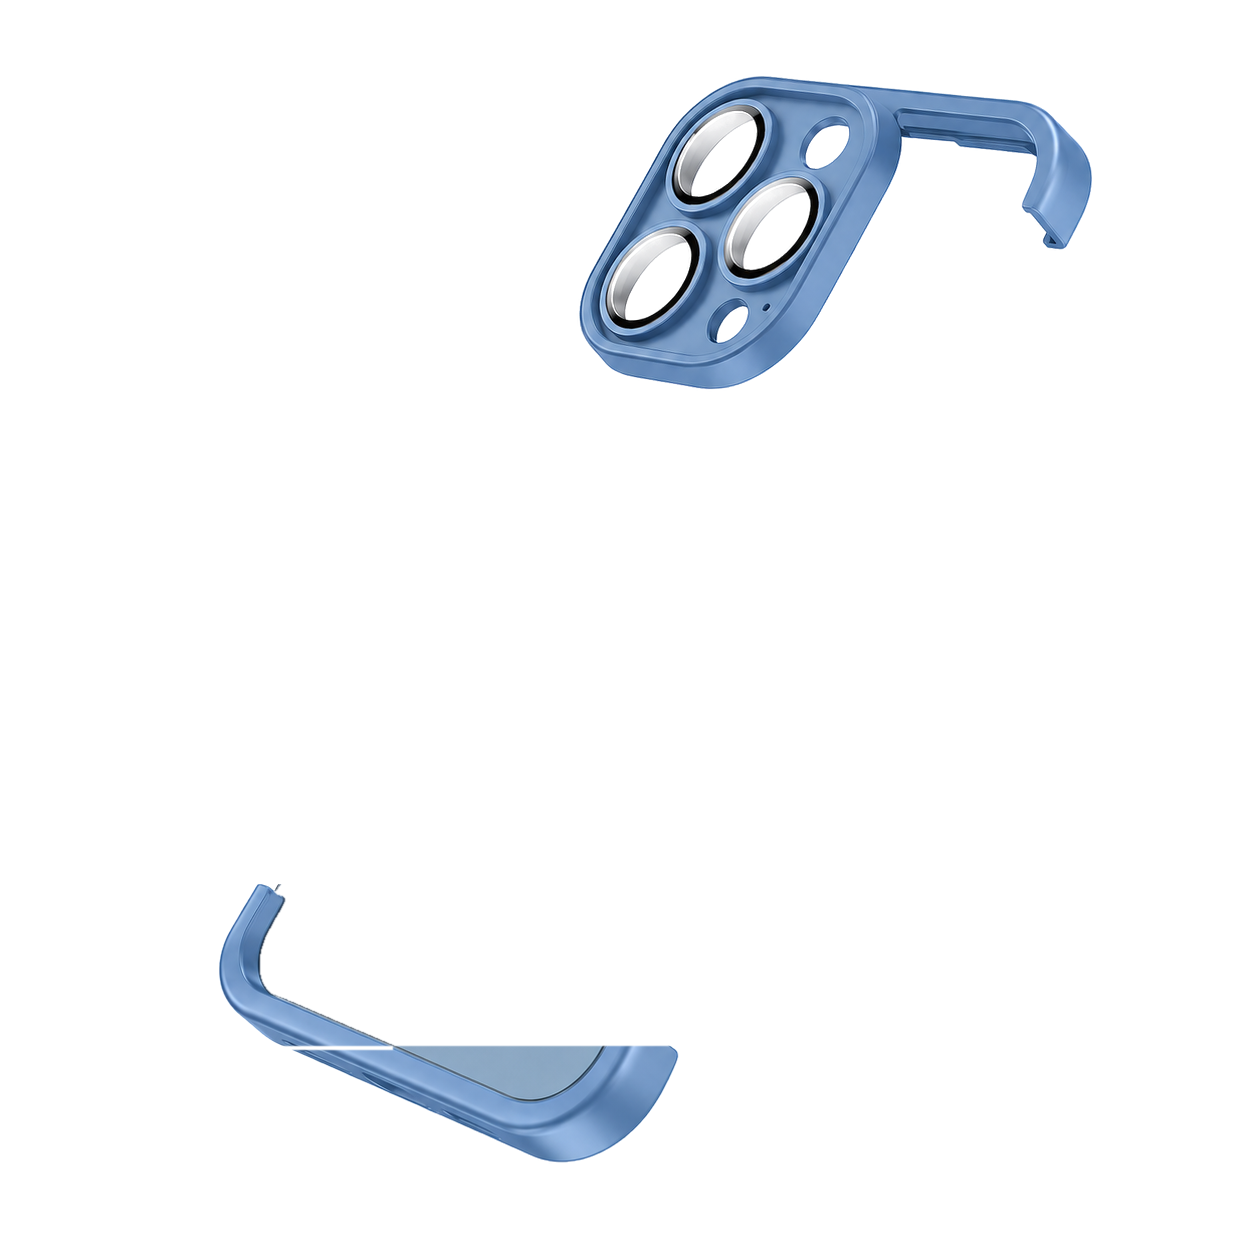
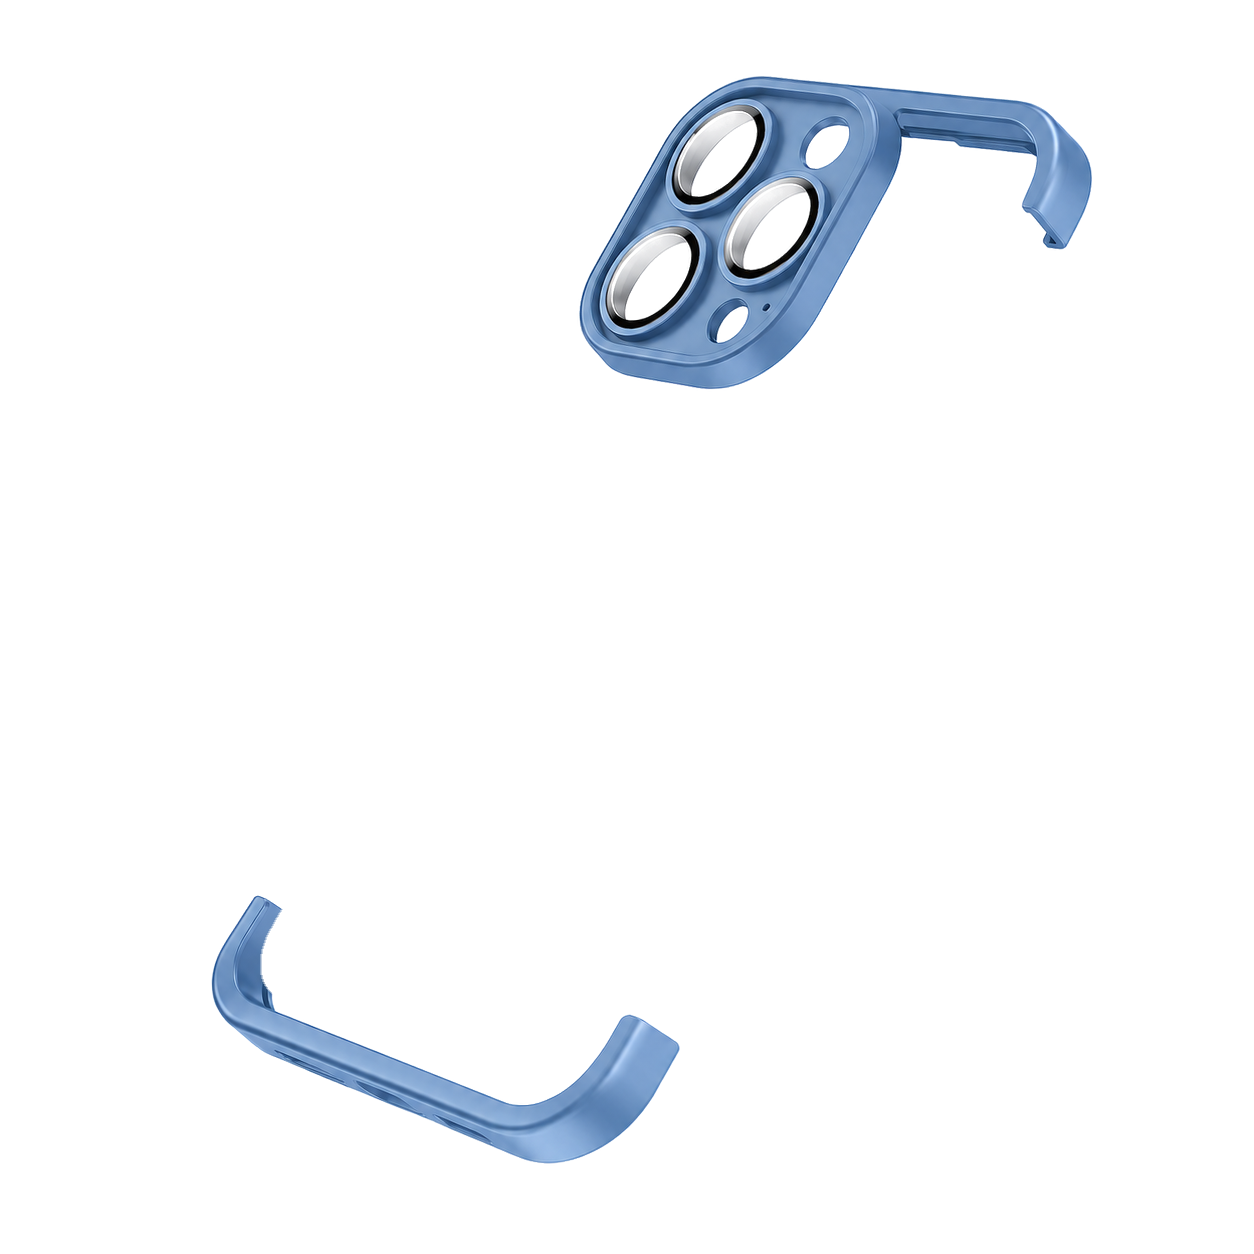
fix(3d-showcase): restore fully aligned phone chassis and apply precise surgical anti-aliased trim to bumper inner lip

Changed region(s): [[0.1555, 0.6842, 0.5598, 0.933], [0.4976, 0.8708, 0.5287, 0.9019]]

diff --git a/index.html b/index.html
@@ -3575,6 +3575,6 @@
   <script src="assets/home_products.js"></script>
   <!-- Real 3D GPU-Accelerated Interactive Exploded & Assembled Showcase -->
   <script src="assets/three.min.js"></script>
-  <script src="webgl_exploded.js?v=20261025f"></script>
+  <script src="webgl_exploded.js?v=20261025g"></script>
 </body>
 </html>
